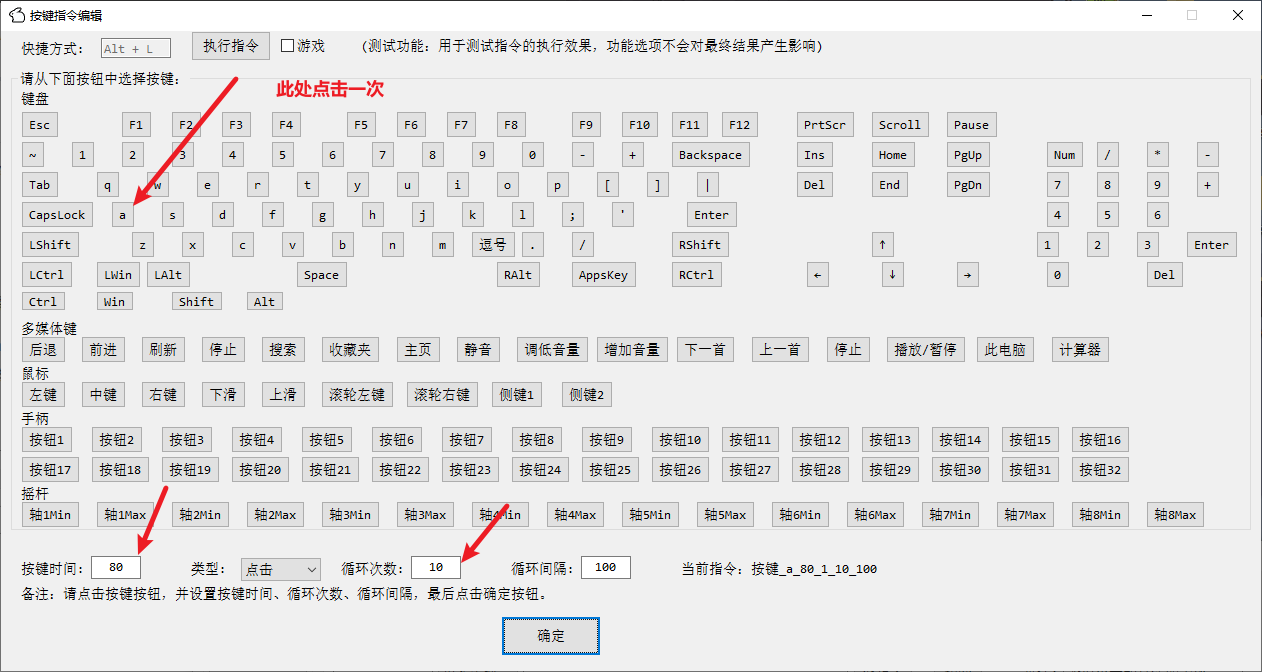
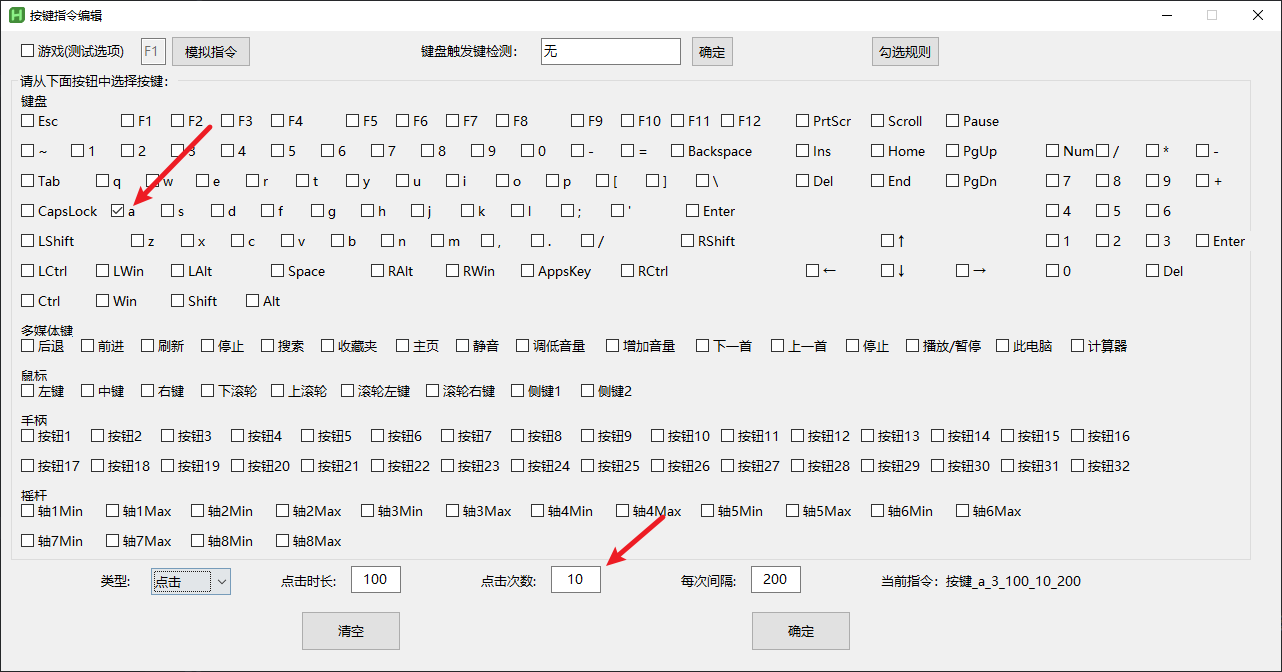
更新操作说明文档

diff --git a/Web/快速上手.md b/Web/快速上手.md
@@ -12,7 +12,7 @@
 
 1. 添加新宏: 点击左侧`新增配置`按钮。
 2. 设置触发按键：点击`触发键`按钮，新窗口选择触发键，例如 `F6`。
-3. 设置宏指令：点击 `宏指令`按钮 → 指令选项中点击 `按键` → 点击按键`A` → 设置`按键时间80`,`循环次数10` → 点击按键编辑界面`确定`按钮 → 点击宏指令编辑界面`确定`按钮。
+3. 设置宏指令：点击 `宏指令`按钮 → 指令选项中点击 `按键` → 点击按键`A` → 设置`循环次数10` → 点击按键编辑界面`确定`按钮 → 点击宏指令编辑界面`确定`按钮。
 
     ![最终按键配置界面](/RMT/Web/Images/Quickly/MultiplyClickSet.png)
 
@@ -27,7 +27,7 @@
 
     ***图示：最终配置界面***
 
-**配置效果**：当按下触发键`F6`时,软件辅助按下`10`次`A`键，每次按键时间`80ms`，每次间隔默认`100ms`，指令总时长`1800ms`
+**配置效果**：当按下触发键`F6`时,软件辅助按下`10`次`A`键，每次按键时间`100ms`，每次间隔`200ms`，指令总时长`2800ms`
 
 ---
 
@@ -54,13 +54,6 @@
     ***图示：输出指令配置界面***
 
 4. 主界面左侧点击`应用并保存`按钮即可。
-
-    ![最终配置界面](/RMT/Web/Images/Quickly/ComTrigger.png) 
-
-    ![最终配置界面](Images/Quickly/ComTrigger.png) 
-
-    ***图示：最终配置界面***
-
 **配置效果**：当按下触发键`Ctrl + Alt + A`时,软件辅助输出`RMT`文本
 
 ---
@@ -73,9 +66,8 @@
 
 1. 添加新宏: 点击左侧`新增配置`按钮。
 2. 设置触发按键：点击`触发键`按钮，新窗口选择触发键，例如 `F9`。
-3. 设置指令模式： `指令串联` → `指令并联`
-4. 设置宏指令：在`宏指令`编辑界面 → 指令选项中点击 `按键` → 点击 `Ctrl`  → 确定 → 指令选项中点击 `按键` → 点击 `V`  → 确定 → 点击宏指令编辑界面`确定`按钮。
-5. 主界面左侧点击`应用并保存`按钮即可。
+3. 设置宏指令：在`宏指令`编辑界面 → 指令选项中点击 `按键` → 点击 `Ctrl`  → 点击 `V`  → 确定 → 点击宏指令编辑界面`确定`按钮。
+4. 主界面左侧点击`应用并保存`按钮即可。
 
     ![最终配置界面](/RMT/Web/Images/Quickly/ComMacro.png) 
 
@@ -114,18 +106,12 @@
 
     ***图示：搜索指令配置结果***
 
-8. 确定设置：点击输出编辑界面`确定`按钮 → 点击宏指令编辑界面`确定`按钮。
+8. 确定设置：点击搜索编辑界面`确定`按钮 → 点击宏指令编辑界面`确定`按钮。
 9. 主界面左侧点击`应用并保存`按钮即可。
-
-    ![最终配置界面](/RMT/Web/Images/Quickly/SearchImage.png)
-
-    ![最终配置界面](Images/Quickly/SearchImage.png)
-
-    ***图示：最终配置界面***
 
 **配置效果**：当按下触发键`F7`时,软件辅助找到点赞图标，移动过去自动点击
 
-📌 注意：图像不能经过缩放，图像路径不能包含下划线，图像大小48*48识别效果最佳。减小搜索范围可以降低性能消耗，增加搜索速度。
+📌 注意：图像不能经过缩放，图像大小48*48识别效果最佳。减小搜索范围可以降低性能消耗，增加搜索速度。
 
 ---
 
@@ -140,9 +126,8 @@
 3. 设置宏指令：在`宏指令`编辑界面 → 指令选项中点击 `搜索`。
 4. 设置搜索类型：搜索类型选择颜色
 5. 取色：鼠标移动到取色为止，按`F2`即可完成取色，颜色文本框会自动填写颜色值
-6. 设置搜索区域（可选）：按`F1`后`鼠标左键`点击拖拽一个矩形区域
-7. 设置找到后指令：配置任意指令即可
-8. 设置未找到后指令：配置任意指令即可
+6. 设置找到后指令：配置任意指令即可
+7. 设置未找到后指令：配置任意指令即可
 
     ![最终搜索配置界面](/RMT/Web/Images/Quickly/SearchColorSet.png) 
 
@@ -150,16 +135,10 @@
 
     ***图示：搜索指令配置结果***
 
-9. 确定设置：点击输出编辑界面`确定`按钮 → 点击宏指令编辑界面`确定`按钮。
-10. 主界面左侧点击`应用并保存`按钮即可。
+8. 确定设置：点击输出编辑界面`确定`按钮 → 点击宏指令编辑界面`确定`按钮。
+9. 主界面左侧点击`应用并保存`按钮即可。
 
-    ![最终配置界面](/RMT/Web/Images/Quickly/SearchColor.png) 
-
-    ![最终配置界面](Images/Quickly/SearchColor.png) 
-
-    ***图示：最终配置界面***
-
-**配置效果**：当按下触发键`F6`时,软件辅助找到颜色执行找到后指令，否则执行未找到后指令
+**配置效果**：当按下触发键`F6`时,软件找到颜色执行找到后指令，否则执行未找到后指令
 
 📌 注意：减小搜索范围可以降低性能消耗，增加搜索速度，不限定搜索范围，屏幕中只要有这个颜色就会触发，这可能是你不需要的。
 
@@ -188,12 +167,6 @@
 9. 确定设置：点击输出编辑界面`确定`按钮 → 点击宏指令编辑界面`确定`按钮。
 10. 主界面左侧点击`应用并保存`按钮即可。
 
-    ![最终配置界面](/RMT/Web/Images/Quickly/SearchText.png) 
-
-    ![最终配置界面](Images/Quickly/SearchText.png) 
-
-    ***图示：最终配置界面***
-
 **配置效果**：当按下触发键`F3`时,软件辅助识别文本后执行找到后指令，否则执行未找到后指令
 
 📌 注意：减小搜索范围可以降低性能消耗，增加搜索速度，若软件RapidOcr\models\ppocr_keys_v1.txt中无特定字库，请手动添加到文本顶部
@@ -221,25 +194,19 @@
 6. 点击移动编辑界面`确定`按钮 → 点击宏指令编辑界面`确定`按钮。
 7. 主界面左侧点击`应用并保存`按钮即可。
 
-    ![最终配置界面](/RMT/Web/Images/Quickly/Move.png)
-
-    ![最终配置界面](Images/Quickly/Move.png) 
-
-    ***图示：最终配置界面***
-
 **配置效果**：当按下触发键`F4`时,软件辅助鼠标移动至桌面坐标（100,100）
 
 ---
 
 ## 8⃣ 指令录制（宏录制器）
 
-**功能说明**：自动录制你在键盘和鼠标上的操作，自动生成并联宏。
+**功能说明**：自动录制你在键盘和鼠标上的操作，自动生成宏指令。
 
 **操作步骤**：
 
-1. 打开录制：主界面 → 工具 → 打开 `指令并联录制`
+1. 开启录制：主界面 → 工具 →勾选 `指令录制`
 2. 在任意地方执行你想要录制的动作（按键、点击等）。
-3. 关闭 `指令并联录制`（指令已经复制到剪切板中）
+3. 关闭录制：主界面 → 工具 →取消勾选 `指令录制`（指令已经复制到剪切板中）
     
     ![工具指令录制图](/RMT/Web/Images/Quickly/RecordSet.png)
 
@@ -251,12 +218,6 @@
 6. 设置宏指令：`Ctrl+V`粘贴到宏指令中
 7. 修改指令模式：`指令串联`改成`指令并联`
 8. 主界面左侧点击`应用并保存`按钮即可。
-
-    ![最终配置界面](/RMT/Web/Images/Quickly/Record.png)
-
-    ![最终配置界面](Images/Quickly/Record.png) 
-
-    ***图示：最终配置界面***
 
 **配置效果**：当按下触发键`F9`时,自动执行录制的内容
 
@@ -279,7 +240,7 @@
     ![最终按键配置界面](Images/Quickly/StrTriggerSet.png) 
 
     ***图示：字串宏触发键配置界面***
-3. 设置宏指令：点击 `宏指令`按钮 → 指令选项中点击 `文件` → 进程下输入`notepad.exe` → 点击编辑界面`确定`按钮 → 点击宏指令编辑界面`确定`按钮。
+3. 设置宏指令：点击 `宏指令`按钮 → 指令选项中点击 `运行` → 路径下输入`notepad.exe` → 点击编辑界面`确定`按钮 → 点击宏指令编辑界面`确定`按钮。
 
     ![最终按键配置界面](/RMT/Web/Images/Quickly/FileSet.png) 
 
@@ -288,12 +249,6 @@
     ***图示：文件指令配置界面***
 
 4. 主界面左侧点击`应用并保存`按钮即可。
-
-    ![最终配置界面](/RMT/Web/Images/Quickly/Str.png)
-
-    ![最终配置界面](Images/Quickly/Str.png)  
-    
-    ***图示：最终配置界面***
 
 **配置效果**：当双击`按键A`,软件辅助打开notepad.exe
 
